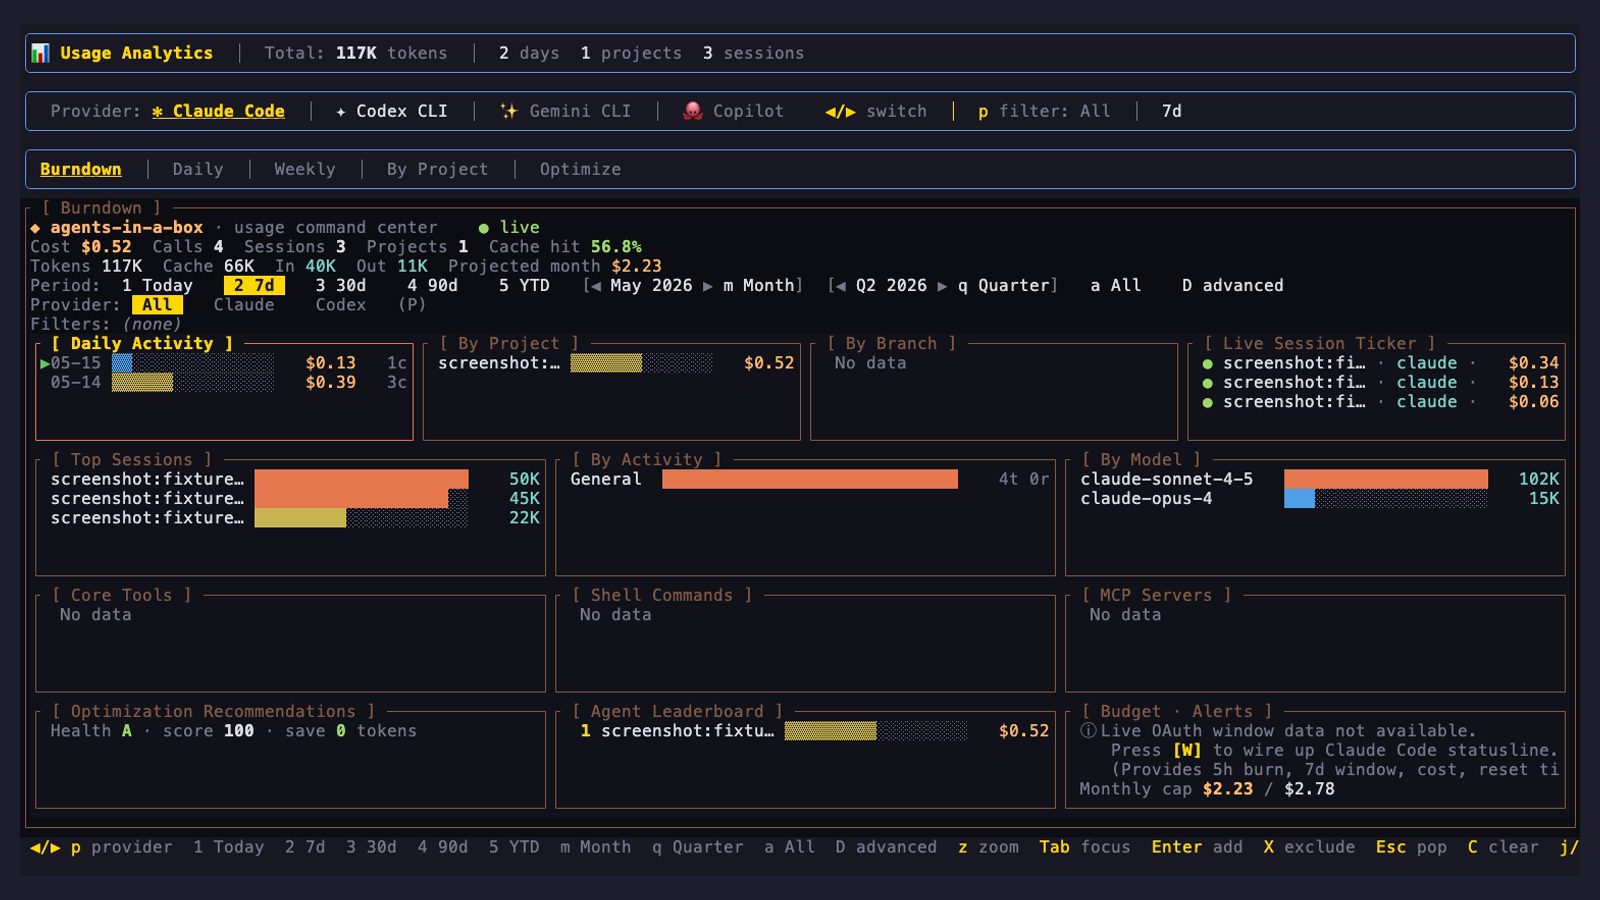
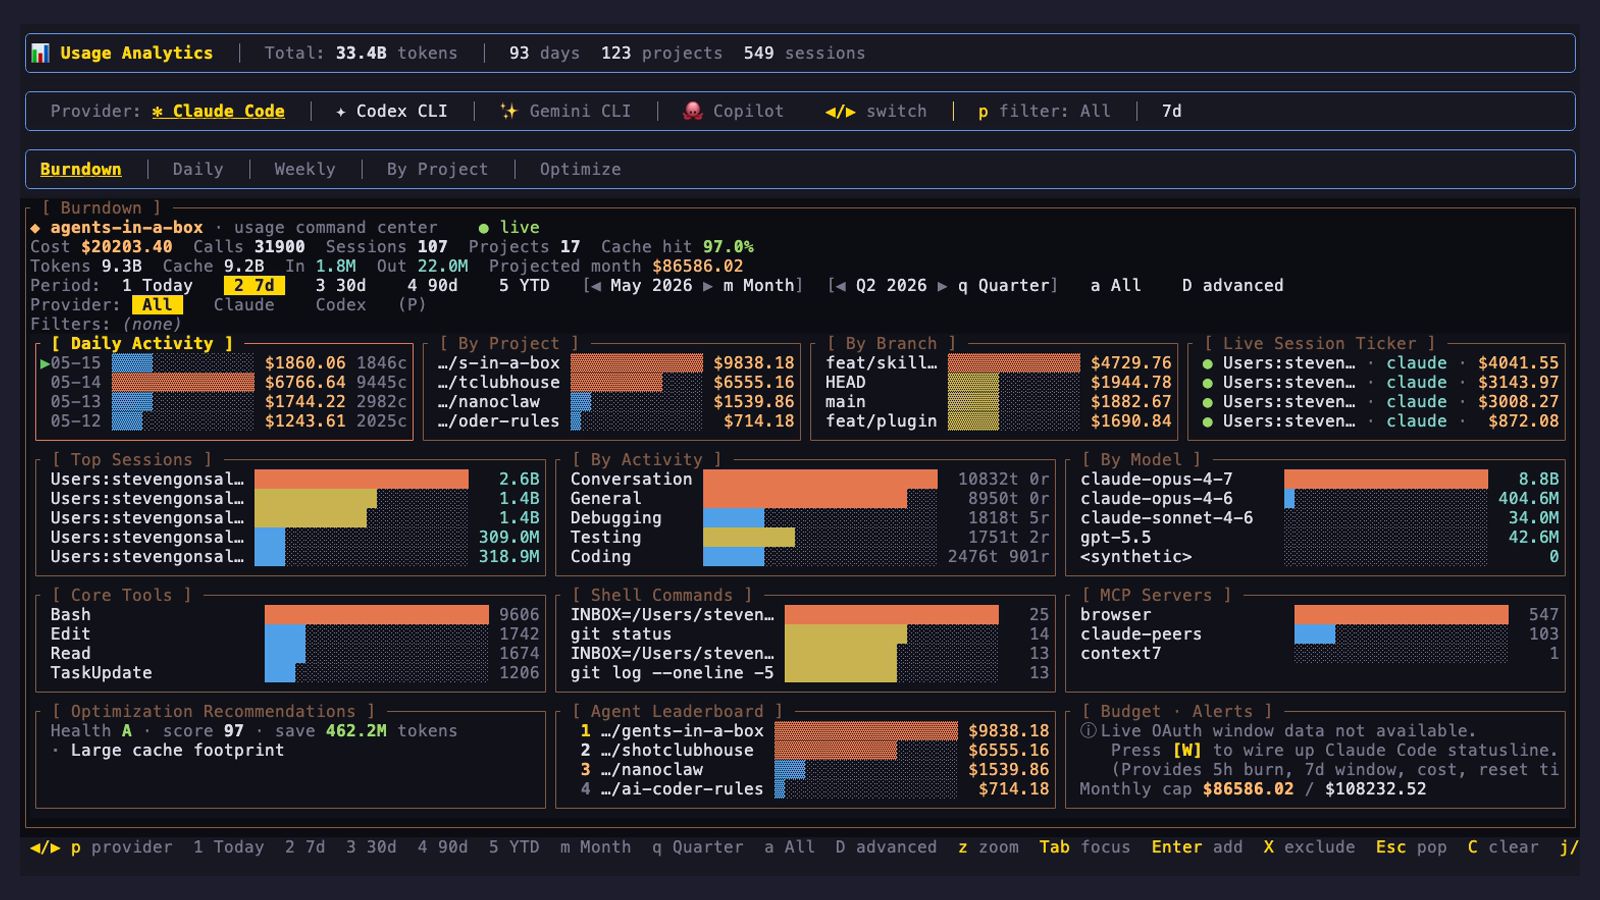
docs(screenshots): regen home + burndown against real $HOME
Both tapes now drive ainb against the contributor's real $HOME so
the screenshots reflect actual workspace state and Claude usage:

- home.tape: drop diagnostic echo prelude, bump Sleep 20s -> 75s
  (cold scan of populated ~/.agents-in-a-box takes ~30s before
  TUI paints; confirmed via real-tmux probe).
- burndown.tape: bump home-settle 60s -> 75s, post-'i' scan 6s -> 60s
  (real ~/.claude/projects ingest of 2.2 GB / 179 project dirs).
- screenshots/README.md: rewrite to document real-$HOME mode and
  timing budgets; trade-off note that PNGs are point-in-time and
  not byte-identical across machines.
- Drop seed-and-run.sh — no longer used now both tapes run unseeded.

diff --git a/docs/assets/screenshots/README.md b/docs/assets/screenshots/README.md
@@ -1,43 +1,55 @@
 # Screenshots
 
-Reproducible TUI screenshots for the project docs. Generated headlessly by [vhs](https://github.com/charmbracelet/vhs) — no real terminal needed, no on-screen pop-ups, output is byte-deterministic per binary build + theme.
+Reproducible TUI screenshots for the project docs. Generated headlessly by [vhs](https://github.com/charmbracelet/vhs) — no real terminal needed, no on-screen pop-ups, output is byte-deterministic per binary build + theme + `$HOME` state.
 
 ## Files
 
 | File | Tape | What it shows |
 |---|---|---|
-| `home.png` | `home.tape` | Cold ainb home screen with sidebar + welcome panel. Plugins disabled (`AINB_DISABLE_PLUGINS=1`). |
-| `burndown.png` | `burndown.tape` | Full burndown dashboard post-Tab (Daily Activity, By Project, By Model, Live Tools, Budget). Plugins enabled — real subprocess pipeline against seeded fixture. |
+| `home.png` | `home.tape` | ainb home screen with sidebar + welcome panel. Plugins disabled (`AINB_DISABLE_PLUGINS=1`). |
+| `burndown.png` | `burndown.tape` | Full burndown dashboard post-Tab (Daily Activity, By Project, By Model, Top Sessions, Budget, Optimization). Plugins enabled. |
+
+Both tapes run against the **contributor's real `$HOME`** so the screenshots reflect actual workspace state and Claude usage. The committed PNGs are point-in-time snapshots of whoever last regenerated them — they're not byte-identical across machines.
 
 ## Regenerating
 
 From `ainb-tui/`:
 
 ```bash
-just stage-plugins                                  # rebuild + re-sign plugin binaries
-vhs ../docs/assets/screenshots/home.tape            # → home.png
-vhs ../docs/assets/screenshots/burndown.tape        # → burndown.png
+just stage-plugins                                  # rebuild + re-sign plugin binaries (needed for burndown)
+vhs ../docs/assets/screenshots/home.tape            # → home.png (~80s wall-clock)
+vhs ../docs/assets/screenshots/burndown.tape        # → burndown.png (~140s wall-clock)
 ```
 
 Each tape drives the real `target/debug/ainb` binary inside vhs's virtual pty, sends scripted keystrokes, snaps a PNG, and exits cleanly.
 
-## How they stay reproducible
+## Timing budgets
 
-- **Isolated `$HOME`** — `seed-and-run.sh` seeds a fresh dir under `/tmp/ainb-screenshot-home` with an onboarding-complete marker and a fixed-content Claude session JSONL. Your real `~/.claude/projects` is never read.
-- **Onboarding stamp** — without this the wizard takes over the home screen on first run.
-- **Synthetic session data** — four hand-rolled assistant messages across three sessions produce a small but populated dataset (~117K tokens, $0.52 cost) so every burndown panel has rows to render.
+vhs `Sleep` directives are wall-clock — under-sleeping captures a loading state silently.
+
+| Phase | Why slow on real $HOME | Sleep budget |
+|---|---|---|
+| ainb startup → home render | workspace scan over `~/.agents-in-a-box/{repos,sessions.json}` + auth probe | 75s |
+| burndown ingest (after `i`) | session-reader plugin walks all of `~/.claude/projects` (2.2 GB / 179 dirs in one author's case) | 60s |
+
+If your `~/.claude/projects` is much larger, bump `Sleep` accordingly and re-record.
+
+## How it stays portable
+
 - **`Catppuccin Mocha` theme** — pinned in the tape; output is independent of your terminal style.
+- **Fixed width × height** — pinned at 1600×900 px so layout is identical across machines.
+- **Real `$HOME`** — no seeding, no symlinks. The trade-off: PNGs reflect *your* usage, not a synthetic fixture. Approved for public docs as of this branch.
 
 ## Adding a new screenshot
 
 1. Copy `burndown.tape` (or `home.tape`) as a starting template.
 2. Adjust the keystroke sequence (`Type`, `Tab`, `Sleep`, etc. — see [vhs docs](https://github.com/charmbracelet/vhs#vhs-command-reference)).
 3. Point `Output` at a new path under `docs/assets/screenshots/`.
-4. If the new screenshot needs additional fixture data, extend `seed-and-run.sh` — keep edits backward-compatible so existing tapes don't drift.
-5. Commit the tape alongside the PNG so the next regen produces the same image.
+4. Confirm the sleep margin covers the slowest cold-scan path on a populated `$HOME`.
+5. Commit the tape alongside the PNG so the next regen produces a comparable image.
 
 ## Hard rules
 
 - **Never edit `~/.tmux.conf`** or any user-global config from these scripts.
 - **Never run `tmux kill-server`** — vhs uses its own pty, not tmux.
-- **Don't paste your real `~/.claude/projects` into a tape** — the seed script is the only data path; keep it deterministic.
+- **Don't seed `~/.claude/projects`** — the tapes read it directly; keep the real path off CI runners.
